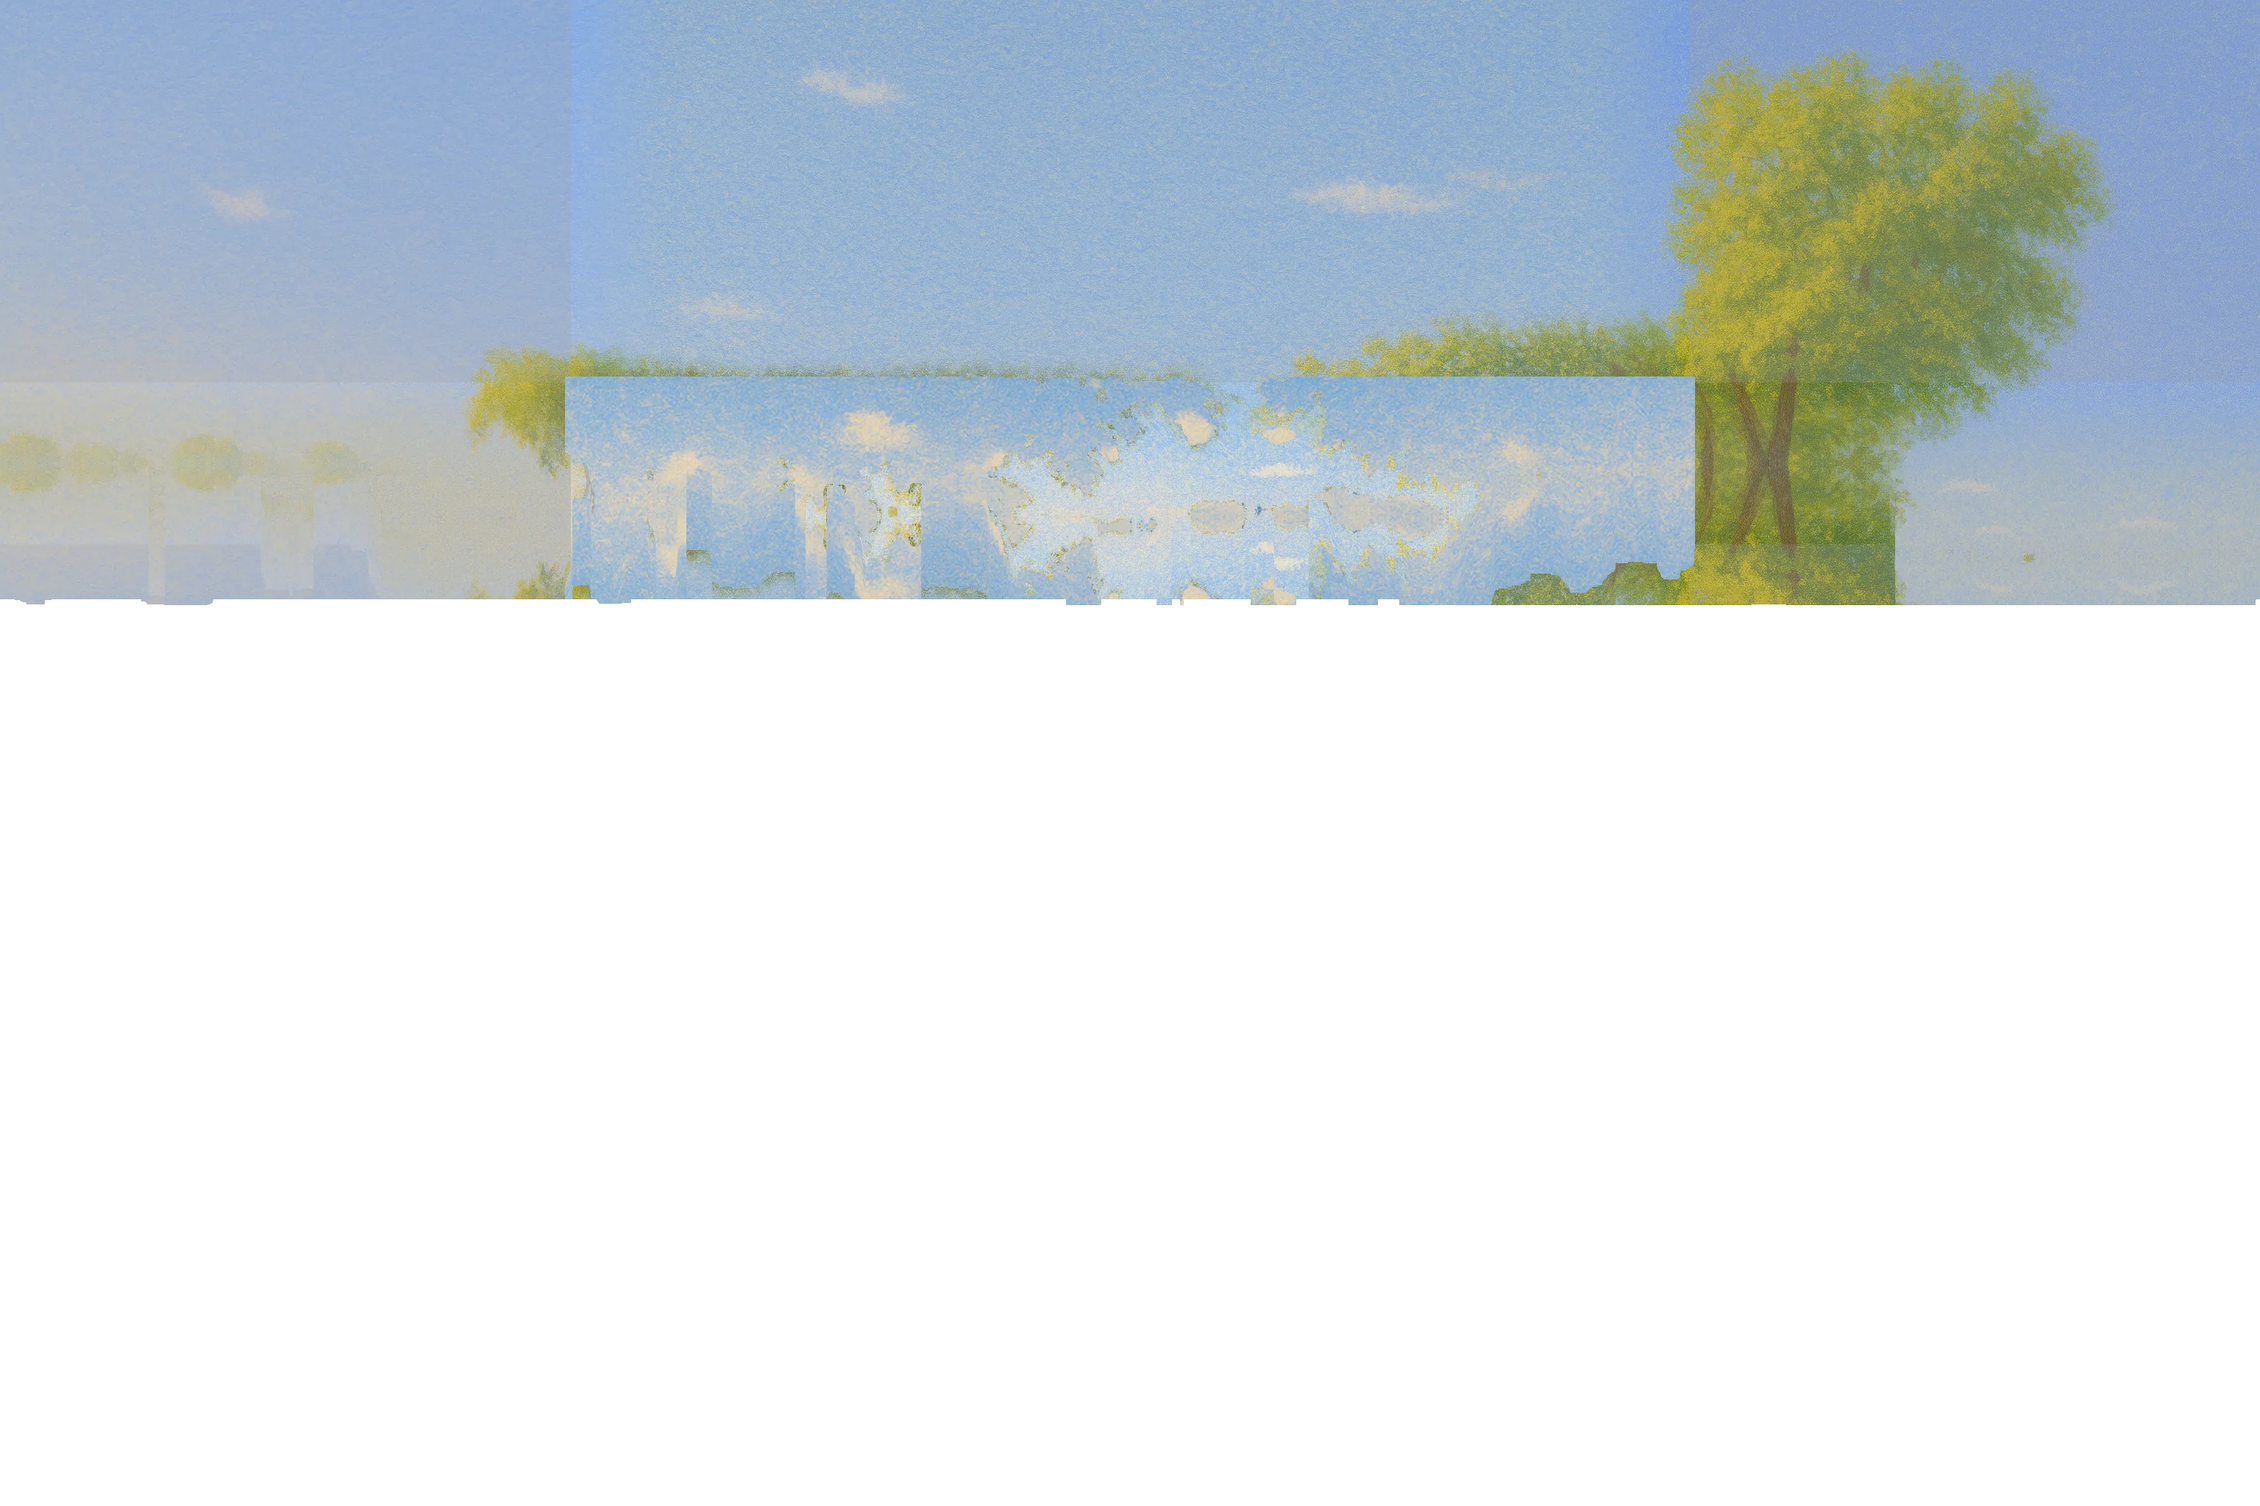
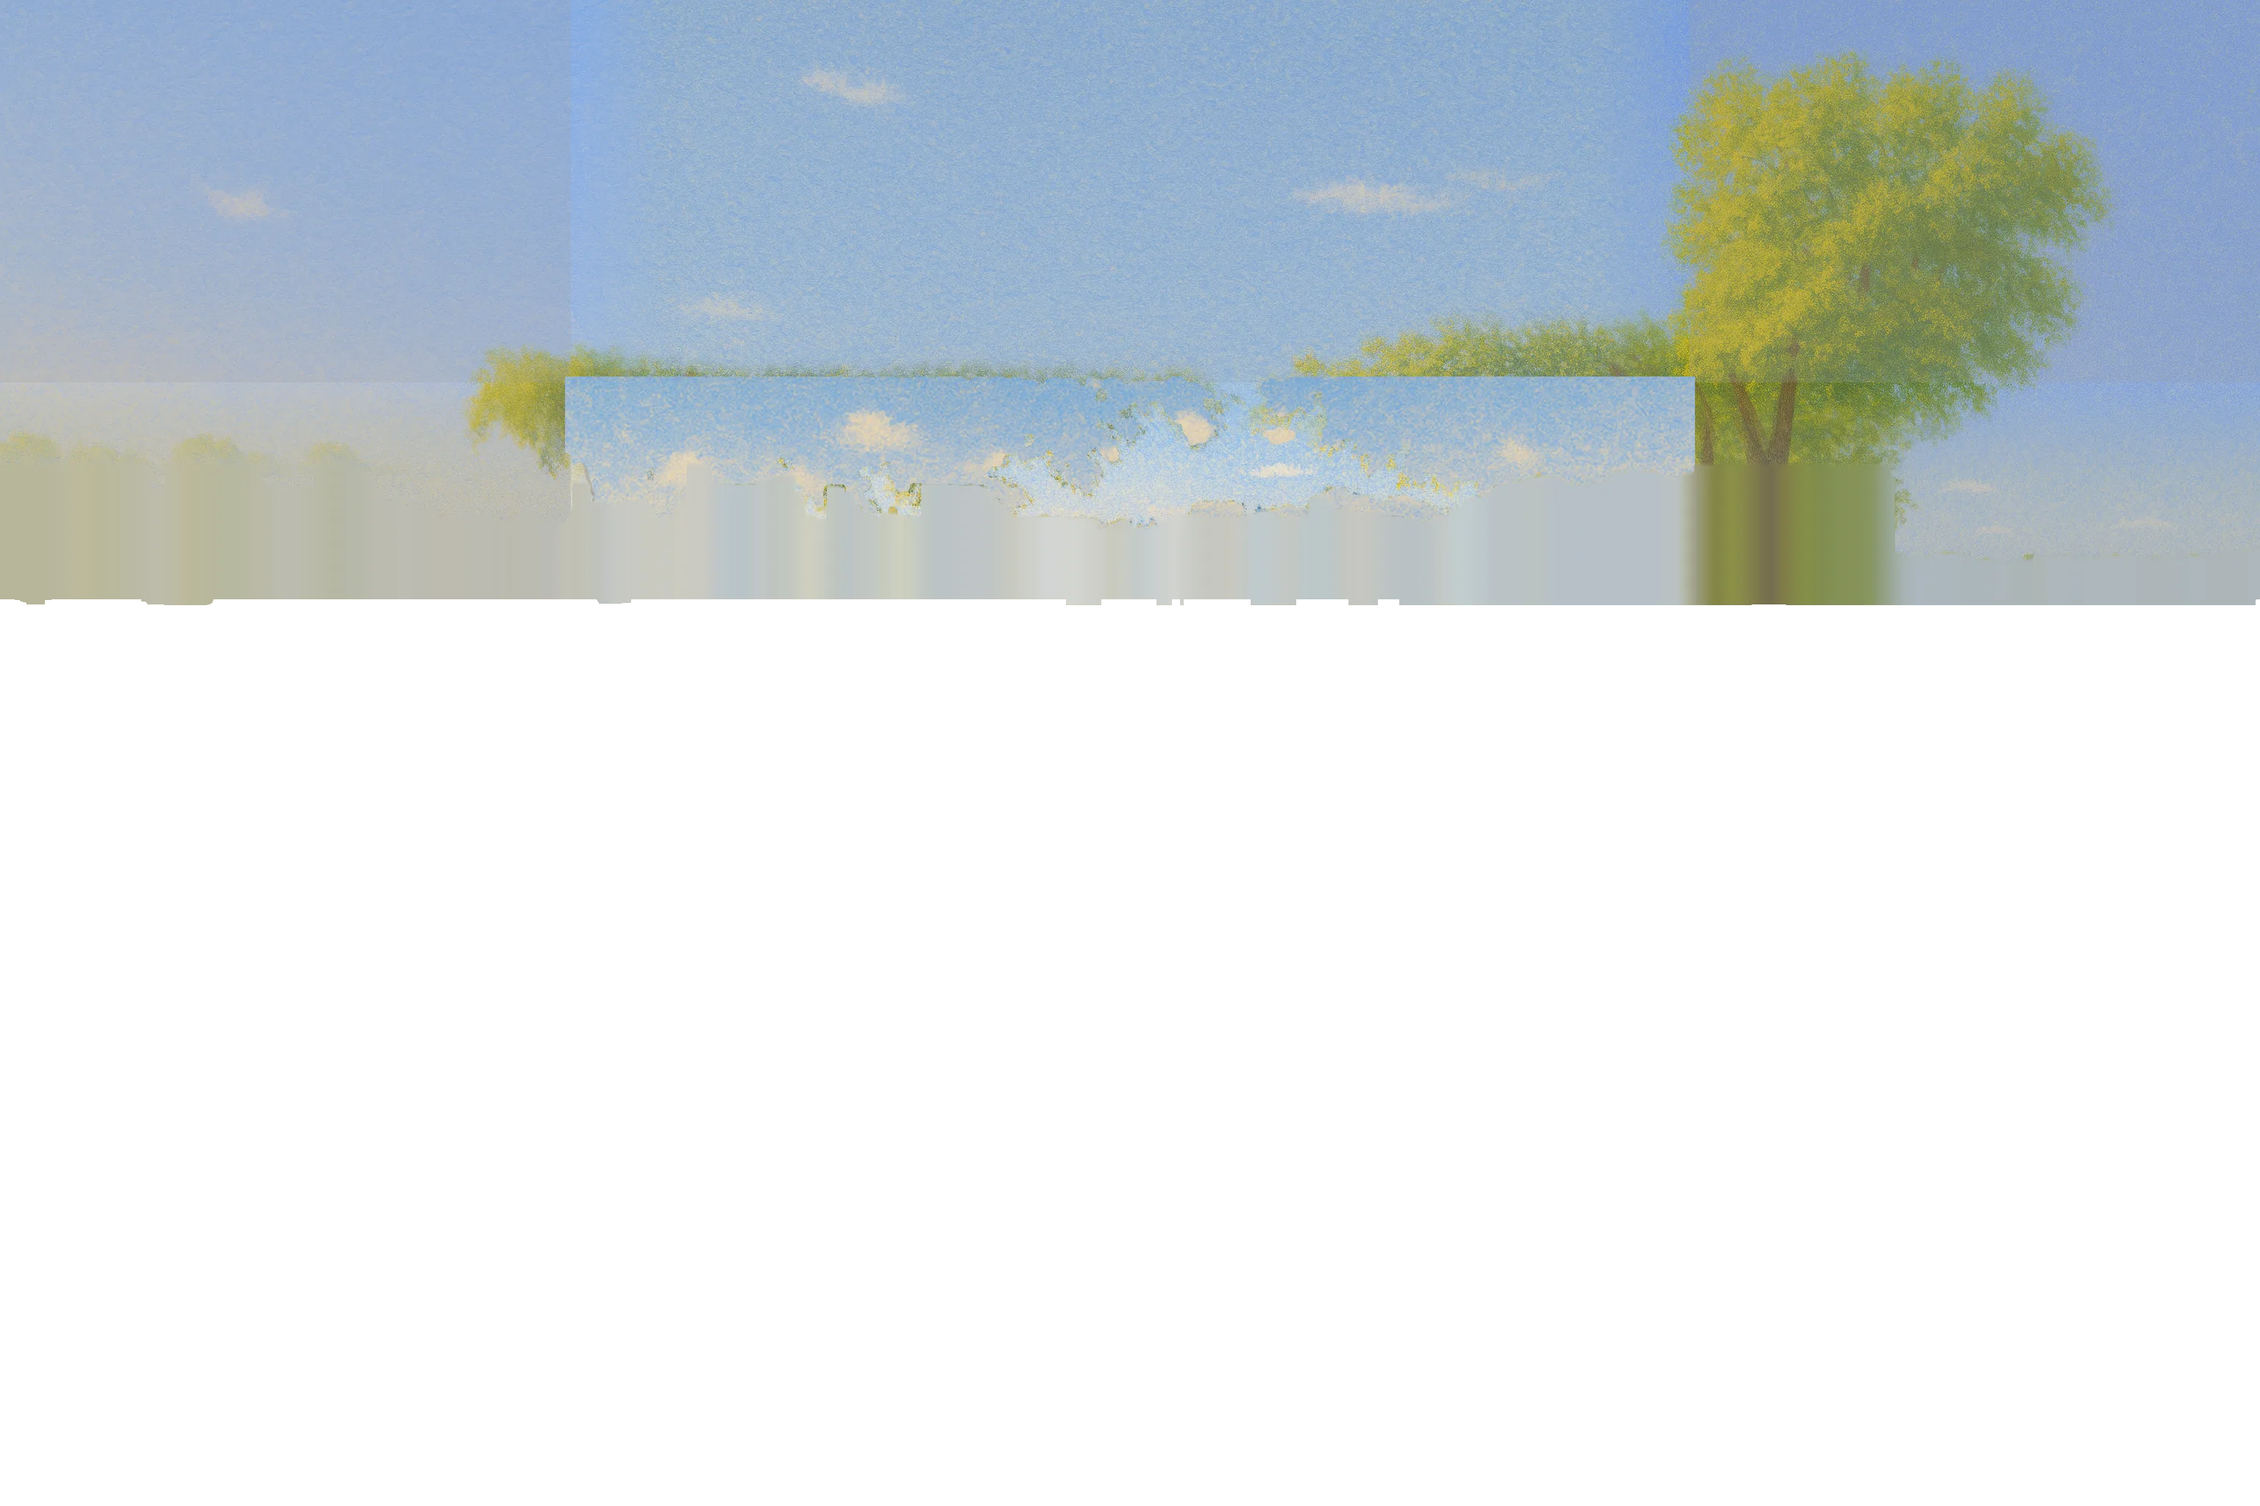
Pointillism v2: the seasons of the wide frame
Step 3 of the plan for the rise. Three whole-picture edits of the
quiet park — late October, mid-January, late April — keep every shape
and change the season. A season borrows the summer's geometry whole:
its tree matte, its tree-free base, its lines; its colour is a lookup
learned from the aligned pair of paintings, one 24³ table per region
over low-passed colour, the dots riding on at six tenths, applied to
the summer continuation and behind the trees, with a per-region
straight-line fit over the shared centre. The sky band carries a
smear of the sky below the treeline, not a mirror. The wide frame
turned to a season as a picture, and the seasons' own edits behind the
elms, were tried and dropped. LEDGER 18j.

Changed region(s): [[0.2188, 0.3125, 0.8438, 0.4062], [0.0, 0.3125, 0.1875, 0.4062]]

diff --git a/PLAN.html b/PLAN.html
@@ -334,7 +334,7 @@ cd how-long-is-now &amp;&amp; npm install &amp;&amp; npm run dev</code></pre>
         <li><s>Decide the park</s> — Lake Harriet, Minneapolis. Its four seasons are declared in the manifest as colour, light height, leaf density and what falls through the air.</li>
         <li>Fable: type studies for the HUD, the scale labels, the two closing lines.</li>
         <li><s>Generated plates: the park across seasons</s> — pipeline proven in <code>ASSETS.md</code>; scene 04’s canopy exists in all four seasons.</li>
-        <li><b>Scene 01, the park at one second</b> — opened 2026-09-08: the year’s world held at its opening frame through the manifest’s new <code>hold</code>, seen from the bench with a still camera, the thermal reading arriving on its own time as the first thing noticed. As of 2026-09-08 the bench is in and so is the blink: the viewer’s own eye, once, five and a half seconds into the second, the lids closing over everything the eye sees, the interface included, and opening again — declared in the manifest, skipped under reduced motion. On 2026-09-08 the seat moved from the bench to a blanket on the lawn among people, in the reference’s pointillist park: the elms overhead, the couple and the reader and the man with his dog just ahead, sitters across the lawn, sails on the lake, and one jogger passing on the path in real time — the small life of the second. The other walkers wait for scene 02. A leaf that moves is still to make. On 2026-09-09 the invitation learned to wait: the hint arrives 8.5 s after the world does — after the blink and after the reading has settled — so the first thing the visitor is told is not to leave before the first thing happens; and the opening second is counted from arrival rather than the script’s first frame, which in development had the blink firing in the dark. On the evening of 2026-09-09 the scene was made a third time, on branch <code>pointillist-v2</code> (ledger session 18): the reference painting itself taken apart — twenty elements redrawn large from crops of it, five ground bands cut from the painting with its people painted out — and put back by a fixed eye at the seat, so that from the seat the plates stack into the painting to the pixel and from anywhere else they are things at honest distances. Nothing in it moves yet; the elements were cut so that they can. The same night the rise was looked at and the overlays switched off (ledger 18h). <b>The plan for the rise, in order:</b> (1) outpaint the quiet park to twice its frame on every side, so the ground, the water, the far shore and the sky cover the view from any height, and give the composition an origin so the painting’s boxes stay in the painting’s pixels; (2) the sky from the empty view alone above the treeline, extended upward, cross-fading to the drawn sky as the eye rises so the day still turns; (3) autumn, winter and spring editions of the wide quiet park, cut into the same bands, the lake as ice; (4) the people as a time lapse — still cutouts that appear, dwell and dissolve in different places, in each season’s activities, on the year’s own count — in place of walkers animated in stride; (5) the camera’s rise re-tuned to the new world; (6) then, one at a time, whichever instruments earn their place in this hand.</li>
+        <li><b>Scene 01, the park at one second</b> — opened 2026-09-08: the year’s world held at its opening frame through the manifest’s new <code>hold</code>, seen from the bench with a still camera, the thermal reading arriving on its own time as the first thing noticed. As of 2026-09-08 the bench is in and so is the blink: the viewer’s own eye, once, five and a half seconds into the second, the lids closing over everything the eye sees, the interface included, and opening again — declared in the manifest, skipped under reduced motion. On 2026-09-08 the seat moved from the bench to a blanket on the lawn among people, in the reference’s pointillist park: the elms overhead, the couple and the reader and the man with his dog just ahead, sitters across the lawn, sails on the lake, and one jogger passing on the path in real time — the small life of the second. The other walkers wait for scene 02. A leaf that moves is still to make. On 2026-09-09 the invitation learned to wait: the hint arrives 8.5 s after the world does — after the blink and after the reading has settled — so the first thing the visitor is told is not to leave before the first thing happens; and the opening second is counted from arrival rather than the script’s first frame, which in development had the blink firing in the dark. On the evening of 2026-09-09 the scene was made a third time, on branch <code>pointillist-v2</code> (ledger session 18): the reference painting itself taken apart — twenty elements redrawn large from crops of it, five ground bands cut from the painting with its people painted out — and put back by a fixed eye at the seat, so that from the seat the plates stack into the painting to the pixel and from anywhere else they are things at honest distances. Nothing in it moves yet; the elements were cut so that they can. The same night the rise was looked at and the overlays switched off (ledger 18h). <b>The plan for the rise, in order:</b> (1) outpaint the quiet park to twice its frame on every side, so the ground, the water, the far shore and the sky cover the view from any height, and give the composition an origin so the painting’s boxes stay in the painting’s pixels; (2) the sky from the empty view alone above the treeline, extended upward, cross-fading to the drawn sky as the eye rises so the day still turns; (3) autumn, winter and spring editions of the wide quiet park, cut into the same bands, the lake as ice; (4) the people as a time lapse — still cutouts that appear, dwell and dissolve in different places, in each season’s activities, on the year’s own count — in place of walkers animated in stride; (5) the camera’s rise re-tuned to the new world; (6) then, one at a time, whichever instruments earn their place in this hand. Steps 1 and 3 landed the same night (ledger 18i, 18j): the park continued to twice its frame in eight pieces, the view behind the elms painted by the model through a mask the shape of the trees, and the three other seasons as whole-picture edits of the quiet park whose colour a per-region lookup carries into the continuation and behind the trees.</li>
         <li><b>Scene 02, the ten minutes</b> — opened 2026-09-08: the same hold with a span of the world’s time, so scroll runs ten minutes of the park’s own motion — clouds, air, water, the sun’s shadows — under a still camera, while the world starts to be read: the wind on the water, then the air through the radar. People crossing the frame are still to make.</li>
         <li><b>Scene 03, the day</b> — opened 2026-09-08: the hold runs a full day of the world’s clock through a lens of its own so the sun can set; the year’s world gained a night from the real sun’s altitude, a dusk that warms the horizon, and a thermal that swings with the light; the day’s arc is drawn as it happens.</li>
         <li><b>Scene 05, the lifetime</b> — opened 2026-09-08: the year’s world held at the August it closed on, the camera rising and drawing back as eighty years pass; the elms grow, the sun’s record stacks a figure a year into a band, and an elm counts the years as rings; the world fades for the turn. On 2026-09-08 the far shore was cut open too, the stand’s roots drawn as a network under it; withdrawn 2026-09-09, under the rule that an instrument has to change how long something feels, not only show what is there (the reader remains, undeclared). The same day the scene moved to follow the memory corridor, just before the return. As of the evening of 2026-09-08 the people are appearances (ledger 13): while the lifetime holds the afternoon, each figure of its crowd is there for a third of a second and gone, walkers and sails somewhere else each time, leaving a trace, three times rarer by the eightieth year. The changing shore is still to make.</li>

diff --git a/src/scenes/manifest.ts b/src/scenes/manifest.ts
@@ -1047,15 +1047,15 @@ export const scenes: Scene[] = [
       // shore is the canopy, the water the far bank, the ground the near
       // bank, so the thermal reads the grass as the grass it is. A plate
       // with a ref derives its size and place; the zeros are ignored.
-      { id: 'sky', z: -170, ref: [0, 0, 1536, 320], width: 0, height: 0, baseY: 0, images: { '*': 'plates/scene-04/ref/sky.webp' } },
+      { id: 'sky', z: -170, ref: [0, 0, 1536, 320], width: 0, height: 0, baseY: 0, images: { 'LATE SUMMER': 'plates/scene-04/ref/sky.webp', AUTUMN: 'plates/scene-04/ref/sky-autumn.webp', WINTER: 'plates/scene-04/ref/sky-winter.webp', SPRING: 'plates/scene-04/ref/sky-spring.webp' } },
       // The far shore stands where the painting's water ends: through the
       // seat's lens the far waterline lies about fifty units out.
-      { id: 'canopy', z: -52, ref: [0, 120, 1536, 200], width: 0, height: 0, baseY: 0, shade: 0.12, images: { '*': 'plates/scene-04/ref/far-shore.webp' } },
-      { id: 'far-bank', z: -52, lay: true, ref: [0, 260, 1536, 360], width: 0, height: 0, baseY: 0, shade: 0.08, images: { '*': 'plates/scene-04/ref/water.webp' } },
-      { id: 'near-bank', z: 4, lay: true, ref: [0, 280, 1536, 744], width: 0, height: 0, baseY: 0, shade: 0.1, images: { '*': 'plates/scene-04/ref/ground.webp' } },
+      { id: 'canopy', z: -52, ref: [0, 120, 1536, 200], width: 0, height: 0, baseY: 0, shade: 0.12, images: { 'LATE SUMMER': 'plates/scene-04/ref/far-shore.webp', AUTUMN: 'plates/scene-04/ref/far-shore-autumn.webp', WINTER: 'plates/scene-04/ref/far-shore-winter.webp', SPRING: 'plates/scene-04/ref/far-shore-spring.webp' } },
+      { id: 'far-bank', z: -52, lay: true, ref: [0, 260, 1536, 360], width: 0, height: 0, baseY: 0, shade: 0.08, images: { 'LATE SUMMER': 'plates/scene-04/ref/water.webp', AUTUMN: 'plates/scene-04/ref/water-autumn.webp', WINTER: 'plates/scene-04/ref/water-winter.webp', SPRING: 'plates/scene-04/ref/water-spring.webp' } },
+      { id: 'near-bank', z: 4, lay: true, ref: [0, 280, 1536, 744], width: 0, height: 0, baseY: 0, shade: 0.1, images: { 'LATE SUMMER': 'plates/scene-04/ref/ground.webp', AUTUMN: 'plates/scene-04/ref/ground-autumn.webp', WINTER: 'plates/scene-04/ref/ground-winter.webp', SPRING: 'plates/scene-04/ref/ground-spring.webp' } },
       // Just behind the bicycle that leans on the trunk (its feet put it
       // at about 11.5) and the three nearest people, ahead of everyone else.
-      { id: 'trees', z: 11, seat: true, ref: [0, 0, 1536, 760], width: 0, height: 0, baseY: 0, shade: 0.08, images: { '*': 'plates/scene-04/ref/trees.webp' } },
+      { id: 'trees', z: 11, seat: true, ref: [0, 0, 1536, 760], width: 0, height: 0, baseY: 0, shade: 0.08, images: { 'LATE SUMMER': 'plates/scene-04/ref/trees.webp', AUTUMN: 'plates/scene-04/ref/trees-autumn.webp', WINTER: 'plates/scene-04/ref/trees-winter.webp', SPRING: 'plates/scene-04/ref/trees-spring.webp' } },
       // The nearest people, each one its own plate at its own distance, redrawn from the painting and fitted into its box there. All August: there for the second and gone once the year turns.
       {
         // Nearer the bicycle than the painting had her, by a little (18g):

diff --git a/assets/LEDGER.md b/assets/LEDGER.md
@@ -1142,3 +1142,28 @@ elms. Season editions of the wide frame are step 3. Last, the far treeline had b
 leaves still in front of it, and rode in the sky band as well as the
 far shore's, doubling as the eye rose; it is found on the filled image
 now, and the sky band carries only sky below it, mirrored down.
+
+### 18j · the seasons of the wide frame
+
+Step 3. Three seasons of the quiet park as whole-picture edits —
+late October, mid-January, late April — came back with every shape in
+place and the season in the colours. Two other routes failed and were
+dropped: the wide frame at half size turned to a season as a picture
+was recomposed (elms moved, new trees on the lawn below the seat), and
+the seasons' own edits behind the elms drifted or, in January, came
+back golden. So a season borrows the summer's geometry whole — its
+tree matte, its tree-free base, its lines for the bands — and takes
+its colour from a lookup learned from the aligned pair of paintings,
+summer beside season: a 24³ table per region (sky, far shore, water,
+ground) over low-passed colour, the image's own dots riding on at six
+tenths so snow is not grass in white. The lookup recolours the summer
+continuation and the base behind the trees; the season's painting sits
+in the middle at full resolution; a straight-line fit per region and
+channel over the shared centre brings the continuation to the
+painting. `plates.mjs` cuts the same five bands per season; the
+manifest keys them by season name and the composition cross-fades
+them by the year's weights. Nine edits spent, three of them unused.
+Winter and spring sit in their continuations without an edge; autumn's
+sky is the least settled. Below the treeline the sky band now carries a smear of the sky's
+own colour just above it rather than the sky mirrored, whose clouds
+had read as a symmetric ledge once the far shore parted from the sky.
